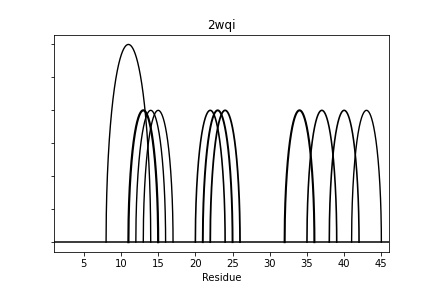
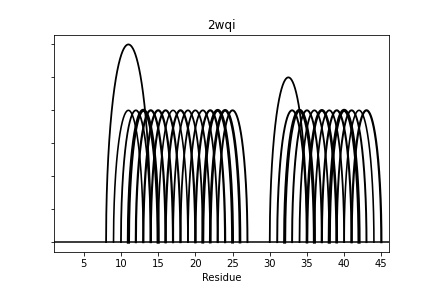
fixed length filtering and added neighbour exclusion

Changed region(s): [[0.2407, 0.25, 0.9028, 0.8438], [0.2708, 0.1562, 0.331, 0.3125]]

diff --git a/functions/calculating/get_cmap.py b/functions/calculating/get_cmap.py
@@ -4,7 +4,8 @@ from scipy.spatial.distance import pdist, squareform
 import numpy as np
 import warnings
 
-def get_cmap(chain,cutoff_distance = 3.6,cutoff_numcontacts = 3,length_filtering = 0):
+def get_cmap(chain,cutoff_distance = 3.6,cutoff_numcontacts = 3,
+            length_filtering = 0,exclude_neighbour=4):
     
     protid = chain.get_parent().get_parent().id
     
@@ -50,12 +51,11 @@ def get_cmap(chain,cutoff_distance = 3.6,cutoff_numcontacts = 3,length_filtering
     cmap = squareform(pdist(coords))
     natoms = len(atom_list)
 
-    cmap[cmap < cutoff_distance]= 1
-    cmap[cmap > cutoff_distance]= 0
+    cmap = (cmap < cutoff_distance) * 1
 
     #segment-segment based contact map, based on atom-atom based contact map
     cmap2 = np.zeros([nseg,nseg],dtype='int')
-    
+
     for i in range(0,natoms):
         for j in range(i+1,natoms):
                
@@ -63,9 +63,11 @@ def get_cmap(chain,cutoff_distance = 3.6,cutoff_numcontacts = 3,length_filtering
             seg_j = segment[residue_number[j]]
             if length_filtering != 0: 
                 dist_sequence = abs(seg_i-seg_j)
+                
                 if cmap[i][j] == 1 and dist_sequence < length_filtering:
                     if seg_i != 0 and seg_j != 0:
                         cmap2[seg_i][seg_j] = cmap2[seg_i][seg_j]+1
+                        
             else:
                 if cmap[i][j] == 1:
                     if seg_i != 0 and seg_j != 0:
@@ -74,17 +76,10 @@ def get_cmap(chain,cutoff_distance = 3.6,cutoff_numcontacts = 3,length_filtering
     cmap2 = cmap2 + cmap2.T
 
     #set values close to diagonal to zero
-    for i in range(0,len(cmap2)):
-        cmap2[i][i] = 0
-    for i in range(0,len(cmap2)-1):
-        cmap2[i][i+1] = 0
-        cmap2[i+1][i] = 0
-    for i in range(0,len(cmap2)-2):
-        cmap2[i][i+2] = 0
-        cmap2[i+2][i] = 0
-    for i in range(0,len(cmap2)-3):
-        cmap2[i][i+3] = 0
-        cmap2[i+3][i] = 0
+    for i in range(0,exclude_neighbour+1):
+        for j in range(0,len(cmap2)-i):
+            cmap2[j][j+i] = 0
+            cmap2[j+i][j] = 0
 
     cmap3 = (cmap2 >= cutoff_numcontacts) * 1
     return cmap3, cmap2, protid ,numbering, res_names

diff --git a/functions/calculating/energy_cmap.py b/functions/calculating/energy_cmap.py
@@ -1,6 +1,6 @@
 import numpy as np
 
-def energy_cmap(cmap3,numbering,res_names,potential_sign = 1):
+def energy_cmap(cmap3,numbering,res_names,potential_sign = 0):
     
     n_amino = 20
     aamap = np.array(['CYS','MET','PHE','ILE','LEU','VAL','TRP','TYR','ALA','GLY','THR','SER','GLN','ASN','GLU','ASP','HIS','ARG','LYS','PRO'])
